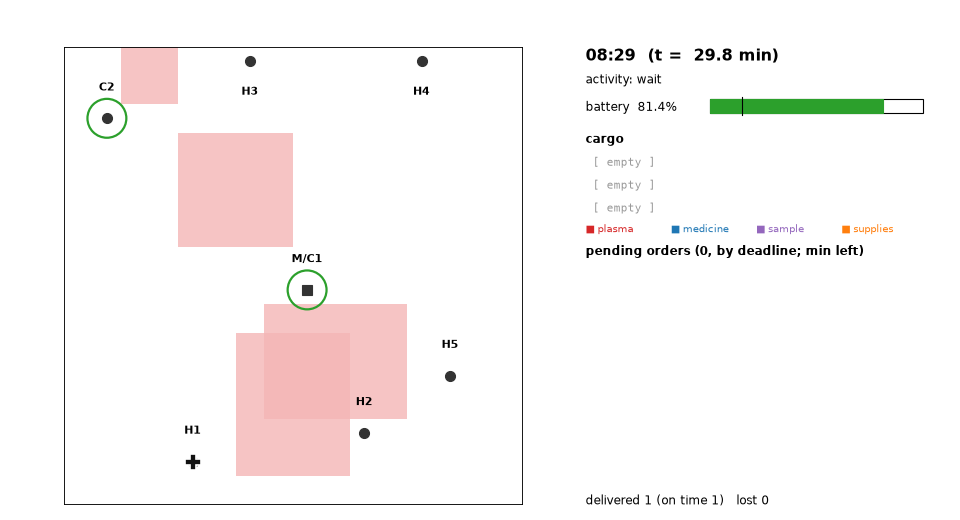
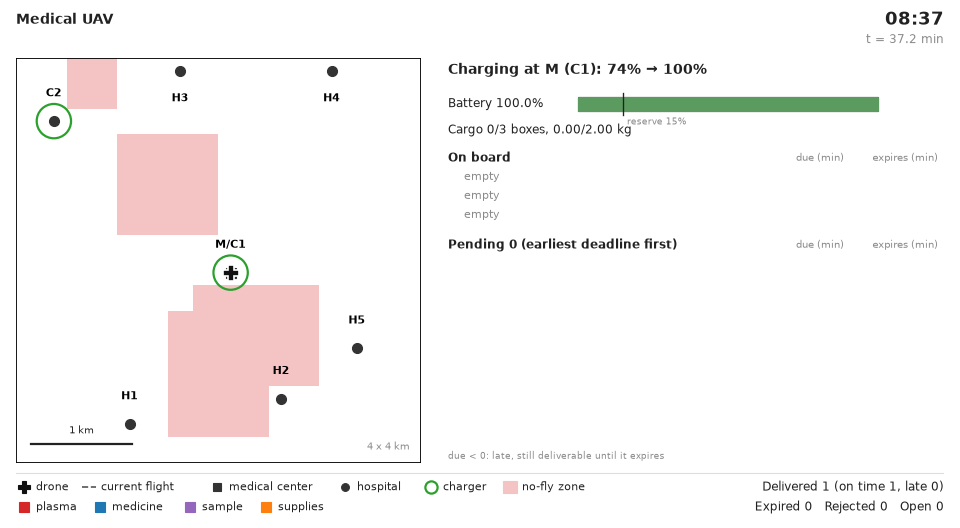
docs(readme): new frame, example excerpt and demo outputs

diff --git a/README.md b/README.md
@@ -12,10 +12,12 @@ or to wait.
 
 ![A simulated day at 11:42](assets/demo.png)
 
-*Slack-aware baseline, medium load, demand seed 0. Left: the 4 km x 4 km map with no-fly zones
-(red), the medical center M (also charger C1), hospitals H1–H5, charger C2, and the drone (+)
-flying to H5 with three boxes. Right: clock, battery with the 15 % reserve mark, cargo with minutes
-left to each deadline, and the pending orders sorted by deadline.*
+*Slack-aware baseline, medium load, demand seed 0, at 11:42. Left: the 4 km x 4 km map with
+no-fly zones, the medical center M (also charger C1), hospitals H1–H5, charger C2, and the drone
+flying from M to H5 with three boxes (coloured by order type). Right: what the drone is doing, its
+battery with the 15 % reserve mark, the boxes on board and the waiting orders, each with the
+minutes left until its deadline (red when late) and until it expires. Bottom: legend and the
+outcome so far.*
 
 ## Install and run
 
@@ -31,35 +33,43 @@ pip install -e .
 Alternatively, `conda env create -f environment.yml` installs the same pinned versions; then run
 `conda activate medical-uav-rl` and `pip install -e .`.
 
-**1. Walk through the API** (about 50 readable lines):
+**1. Walk through the API** (about 90 readable lines):
 
 ```bash
 python scripts/example.py
 ```
 
-It creates the environment, prints the drone's state, the visible orders and the allowed actions,
-takes five decisions while printing their duration, reward and events, saves the current frame to
-`outputs/example_frame.png`, and finally runs a whole day:
+It goes through seven numbered steps: create the environment and print its state; let the
+Slack-aware baseline take five decisions, printing each one's duration, reward and events; pick a
+charging action from the allowed ones; save the current frame to `outputs/example_frame.png`; run
+the whole day; compare the three baselines on that day; and rerun it with a changed setting.
+Excerpt:
 
 ```
-t = 1.0 min | at M | battery 100.0 % | 0 box(es) on board
-  slot 0: supplies H5->H1  0.75 kg  deadline in 75 min
+2. Let the Slack-aware baseline take five decisions
+> WAIT
+  took 1.0 min | reward +0.000 | release #0 at t=1.0
+  08:00 (t=1.0 min) | at M | battery 100.0% | cargo 0/3 boxes, 0.00/2.00 kg | pending 1
+  slot 0: #0 supplies H5->H1, 0.75 kg, due in 75 min, expires in 150 min
   allowed: PICK(0), CHARGE(C2,100), WAIT
-
 > PICK supplies H5->H1
-  took 3.9 min, reward -0.006, events: pickup #0 at 4.8
+  took 3.9 min | reward -0.006 | pickup #0 at t=4.8
 ...
-full day: 64 orders, on time 70%, expired 19%, return 40.39
+6. Compare the baselines on the same day (64 orders)
+  policy              on time  late  expired   reward
+  Random         9/64 (14.1%)    10       45   -14.05
+  EDF           15/64 (23.4%)    35       14    11.72
+  Slack-aware   45/64 (70.3%)     7       12    40.39
 ```
 
 **2. Watch a day:**
 
 ```bash
 python scripts/demo.py --live   # play the day in a window; without a display it saves a GIF
-python scripts/demo.py          # save outputs/demo_slack_medium_0.gif
+python scripts/demo.py          # save the day as a GIF plus a PNG frame at 11:42
 ```
 
-**3. Run the tests** (183 tests, including Gymnasium's `check_env`):
+**3. Run the tests** (189 tests, including Gymnasium's `check_env`):
 
 ```bash
 python -m pytest -q
@@ -174,9 +184,11 @@ charging-threshold tuning, the map statistics and the speed measurement:
 python scripts/calibrate.py --tune-theta --map-check 200 --benchmark
 ```
 
-More demo options: `--policy {slack,edf,random}`, `--load {low,medium,high}`, `--seed N` (demand
-seed), `--no-video`, and `--snapshots 0 100 160` (PNG frames at those minutes, saved in
-`outputs/`).
+Without `--live`, `demo.py` prints the day's results and saves
+`outputs/demo_slack_medium_seed0.gif` and `outputs/demo_slack_medium_seed0_t222min.png`. Options:
+`--policy {slack,edf,random}`, `--load {low,medium,high}`, `--seed N` (demand seed), `--no-video`,
+`--out FILE.gif|FILE.mp4`, and `--snapshots 0 100 160` (PNG frames at those minutes; `--snapshots`
+alone saves none).
 
 ## Code guide
 
